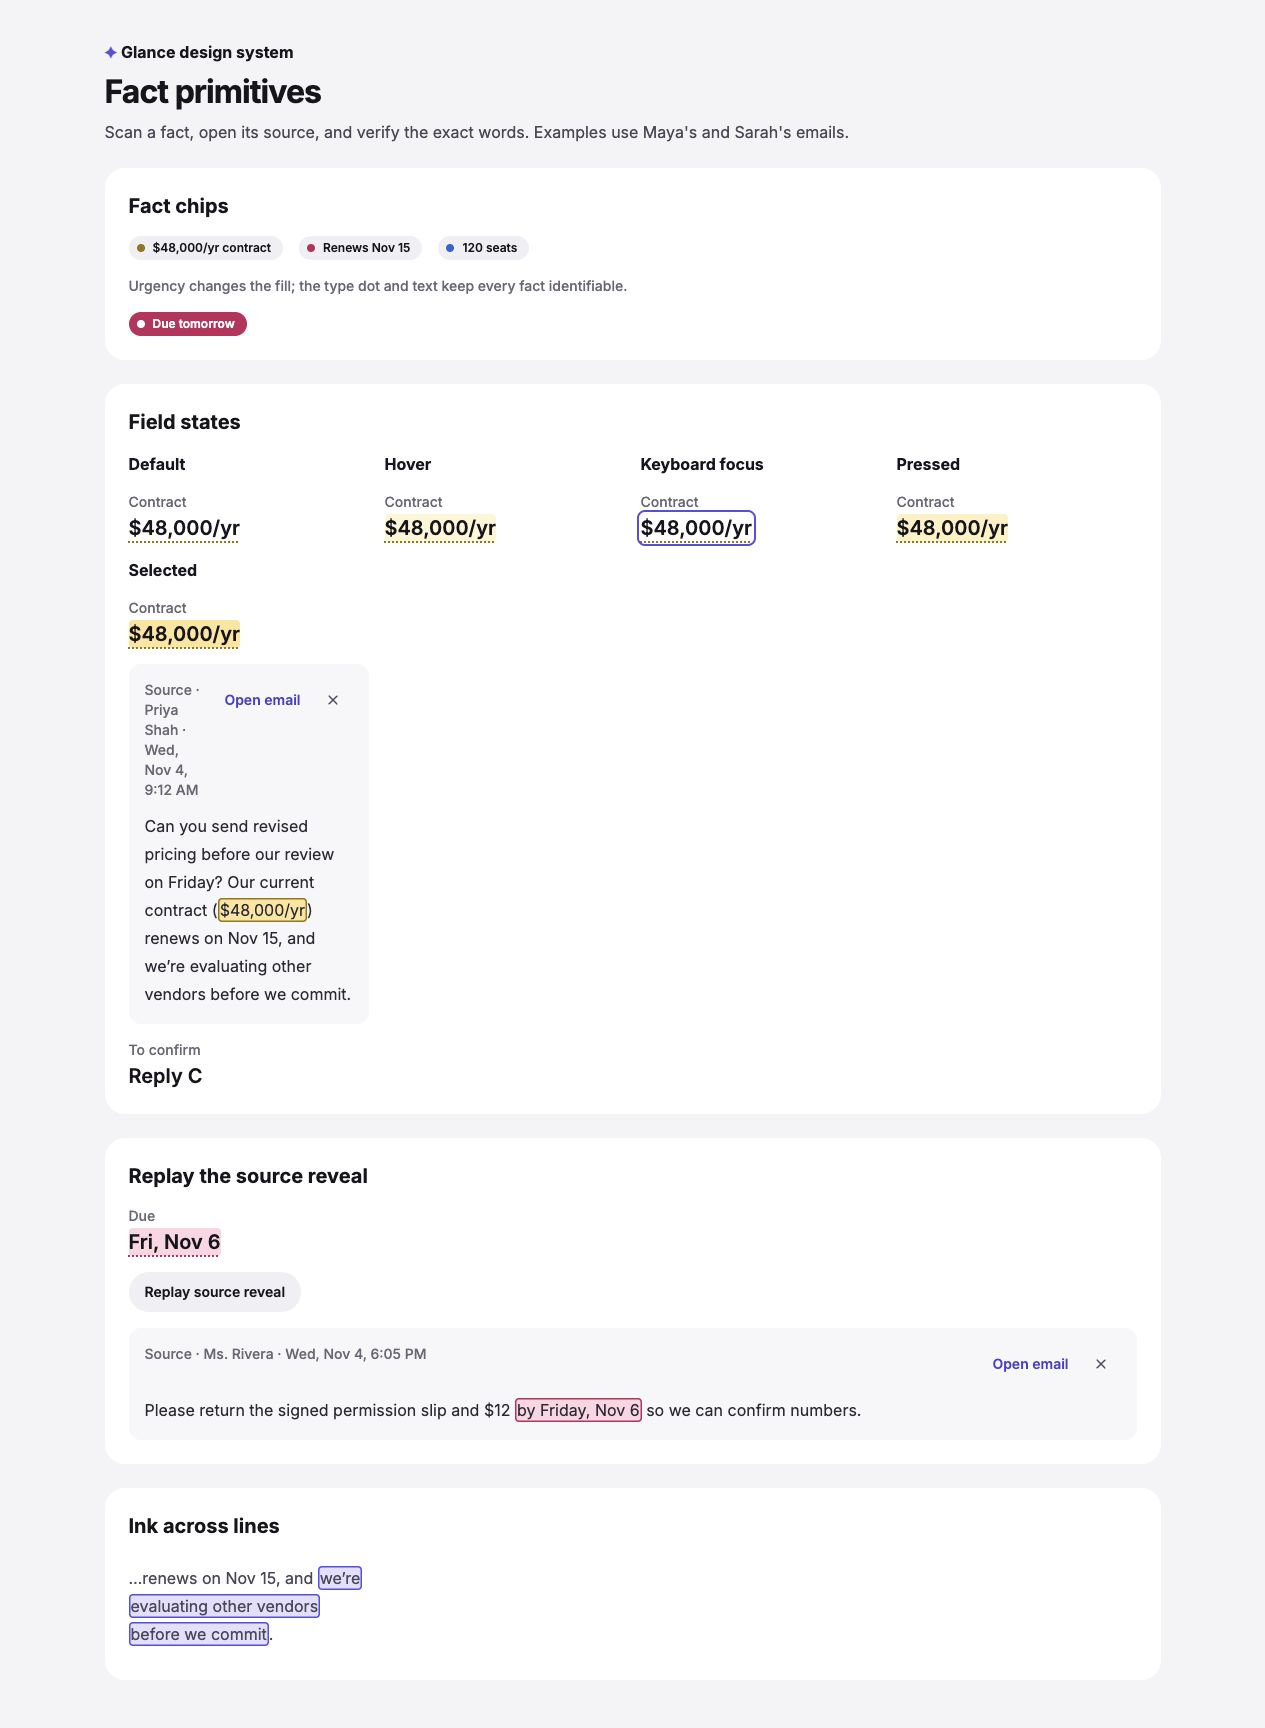
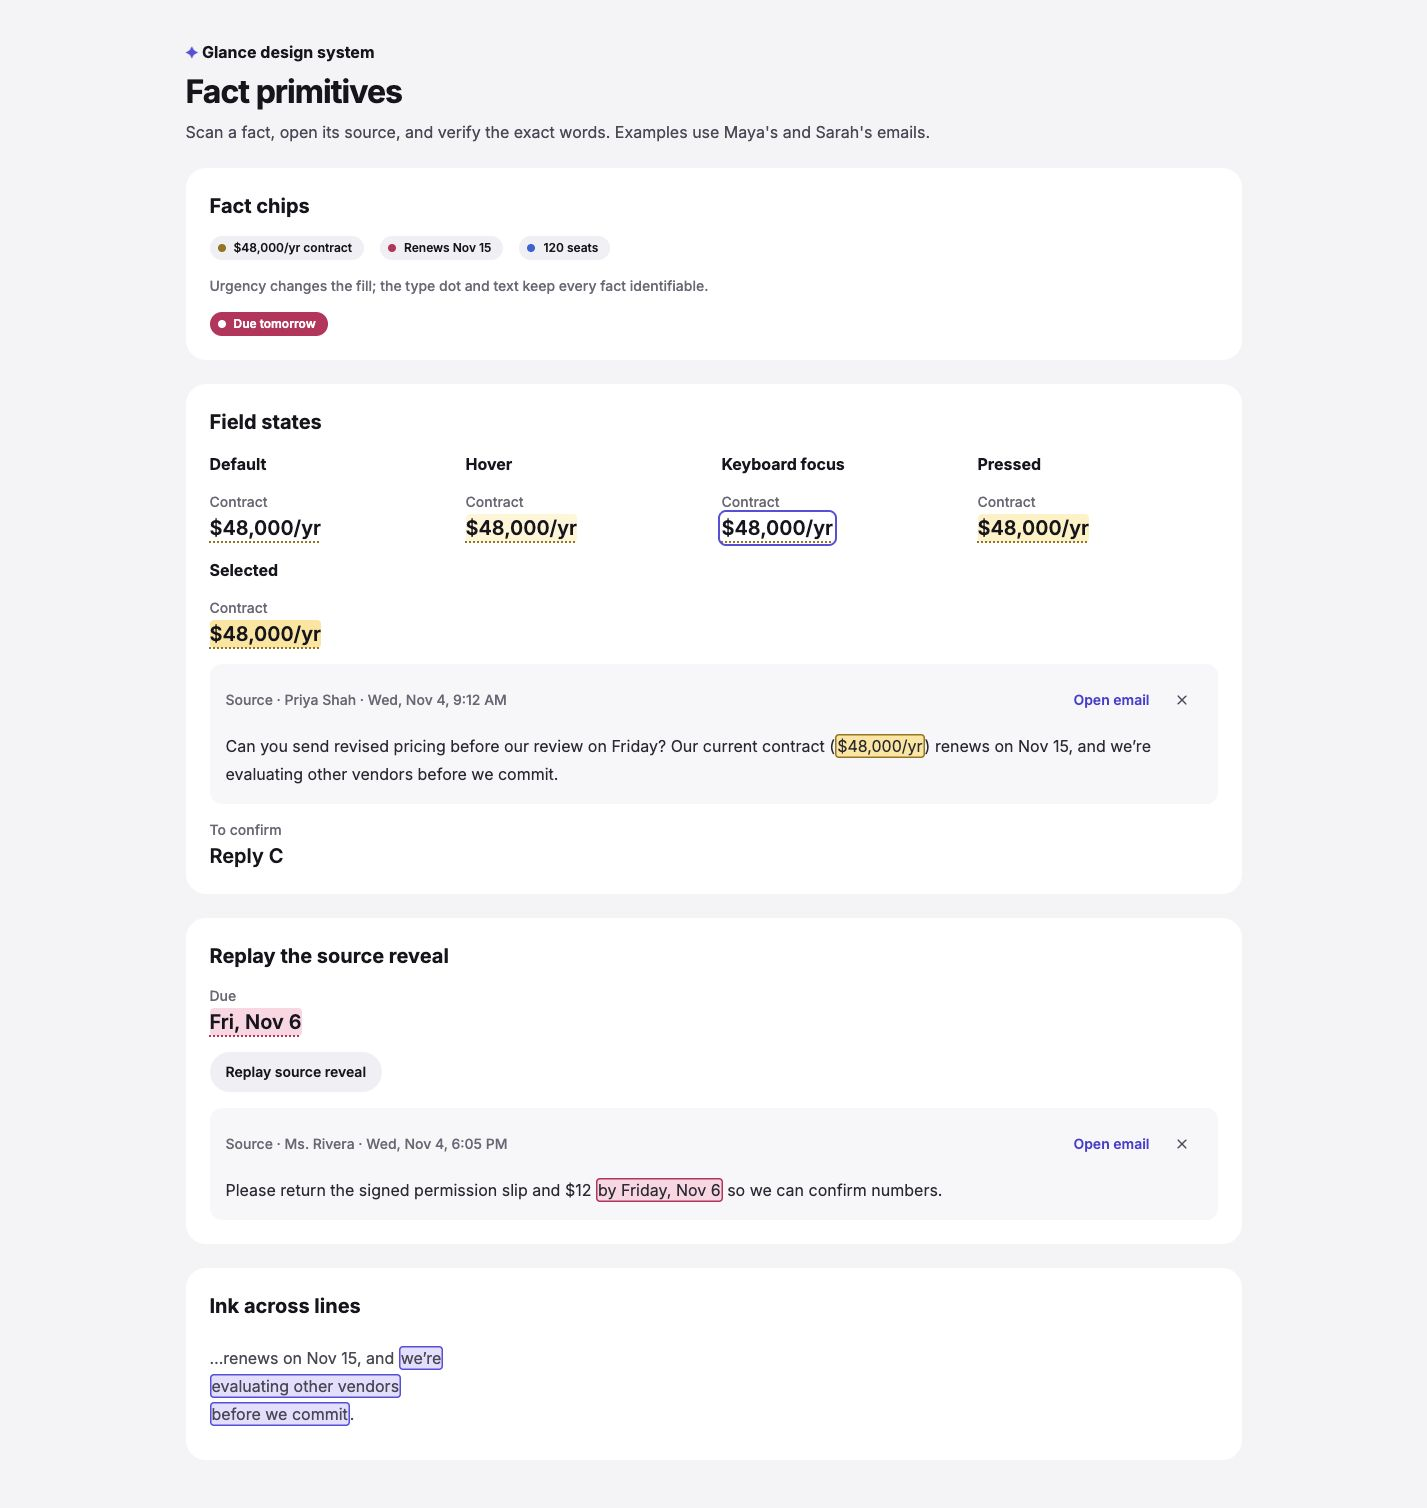
fix(ds): align source metadata and expand selected specimens

diff --git a/src/design-system/components/SourcePanel/SourcePanel.module.css b/src/design-system/components/SourcePanel/SourcePanel.module.css
@@ -13,6 +13,9 @@
   gap: var(--space-8);
 }
 .metadata {
+  display: flex;
+  align-items: center;
+  min-block-size: var(--size-touch-compact);
   min-inline-size: 0;
   overflow-wrap: anywhere;
 }

diff --git a/src/design-system/components/FactExamples.module.css b/src/design-system/components/FactExamples.module.css
@@ -52,3 +52,7 @@
 .narrow {
   max-inline-size: calc(var(--size-touch) * 7);
 }
+
+.specimen[data-field-state='Selected'] {
+  grid-column: 1 / -1;
+}
